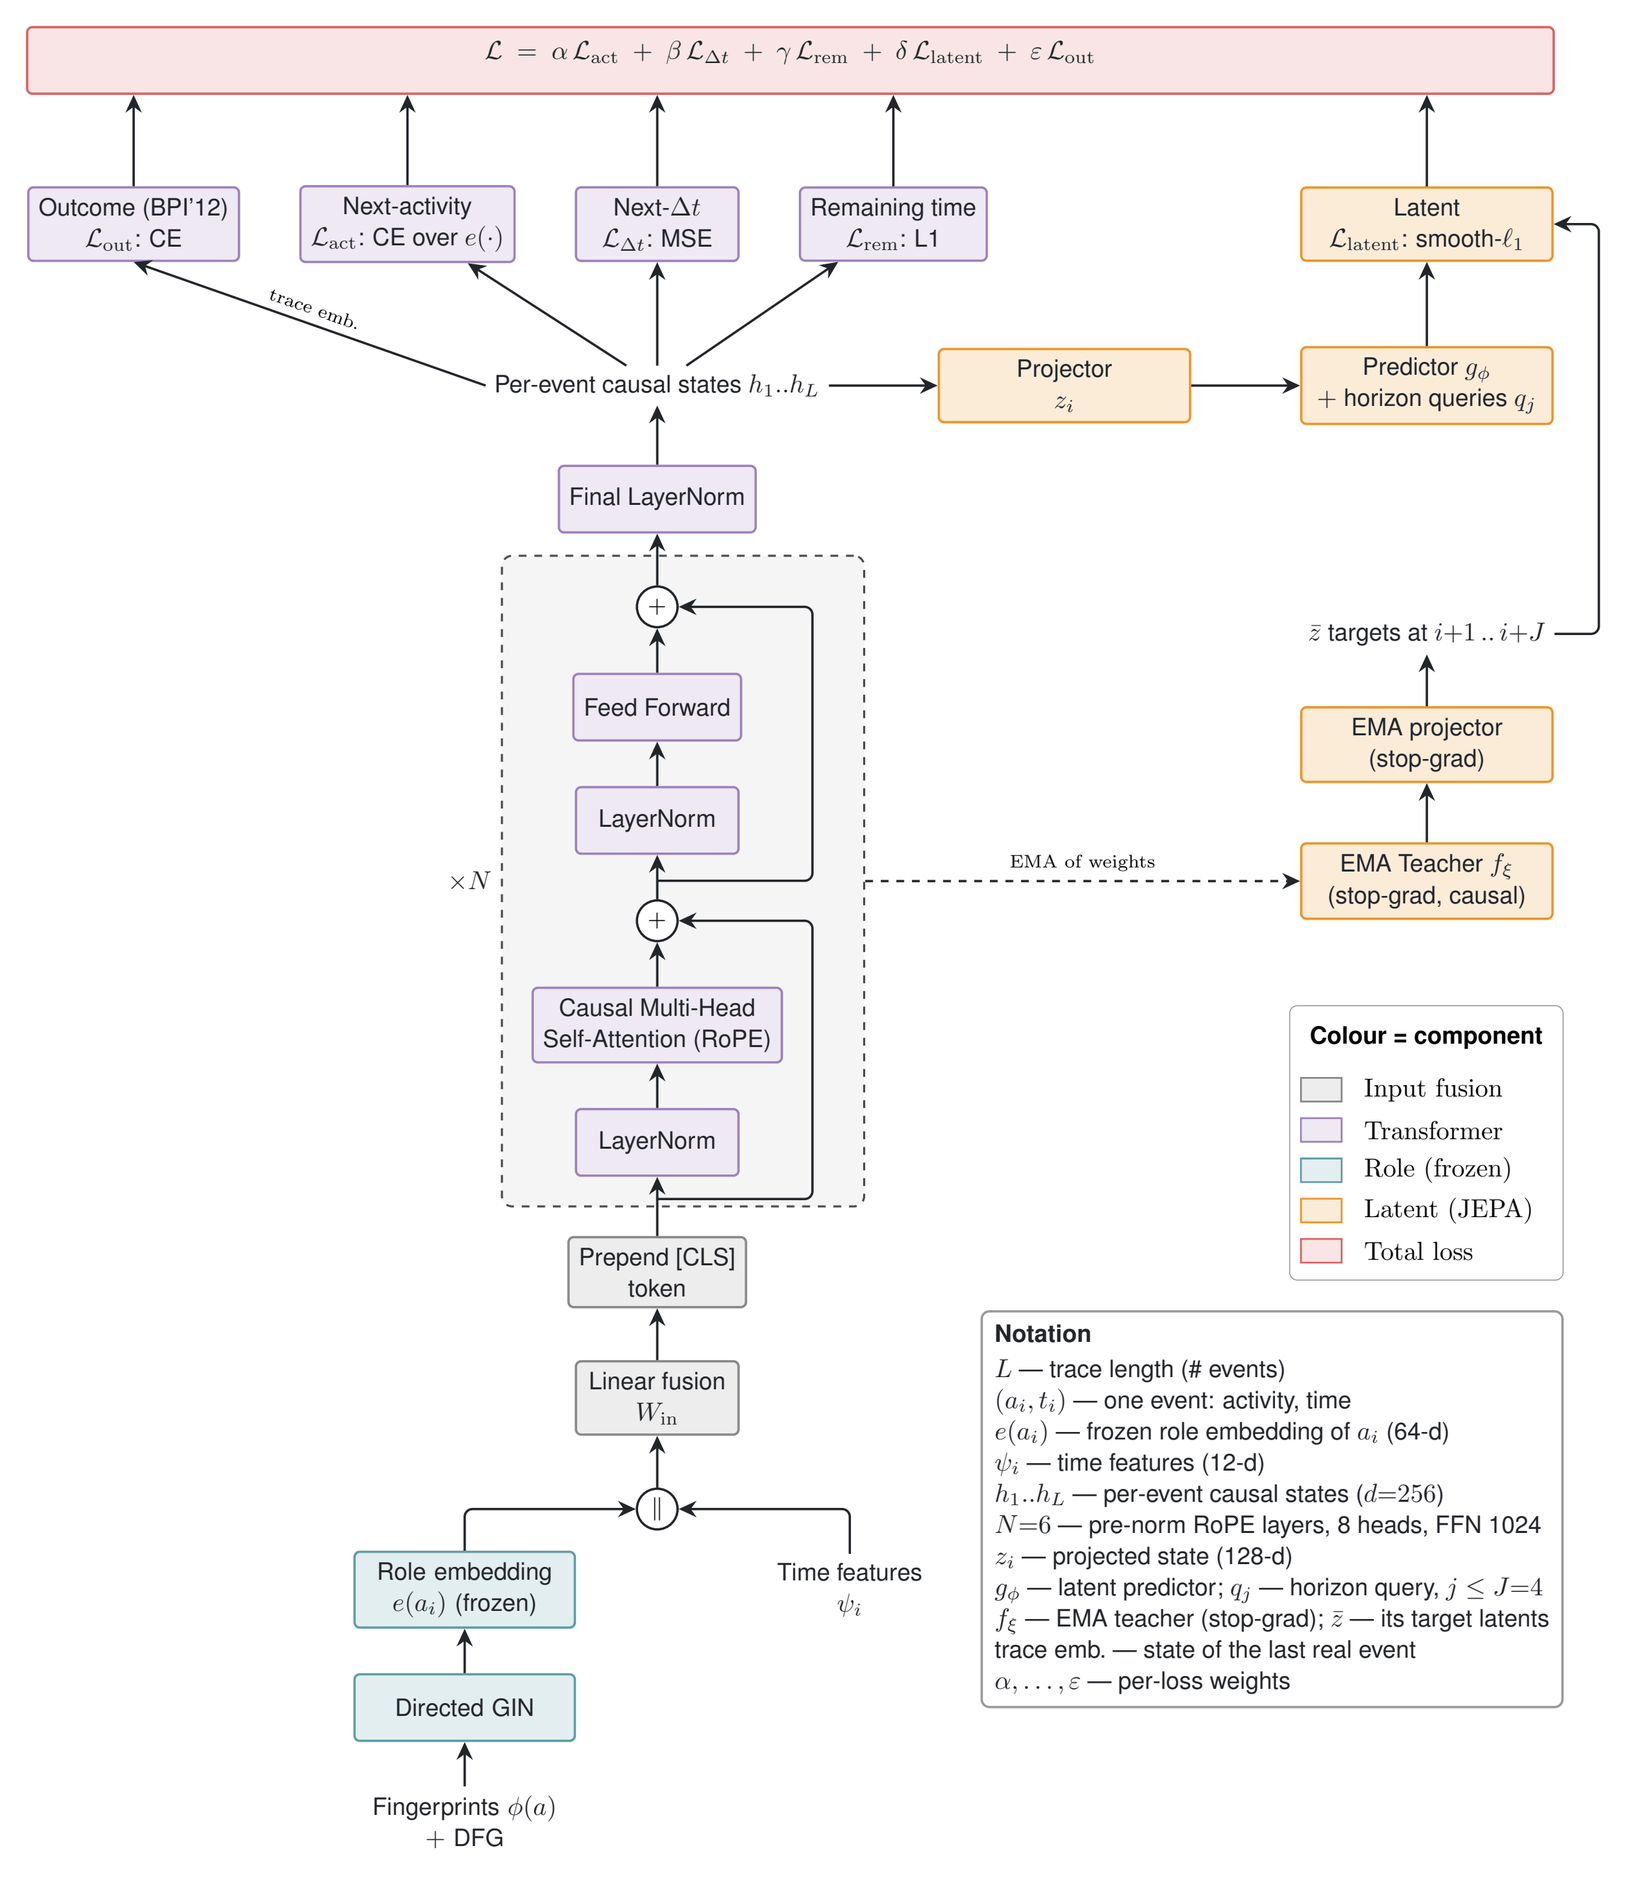
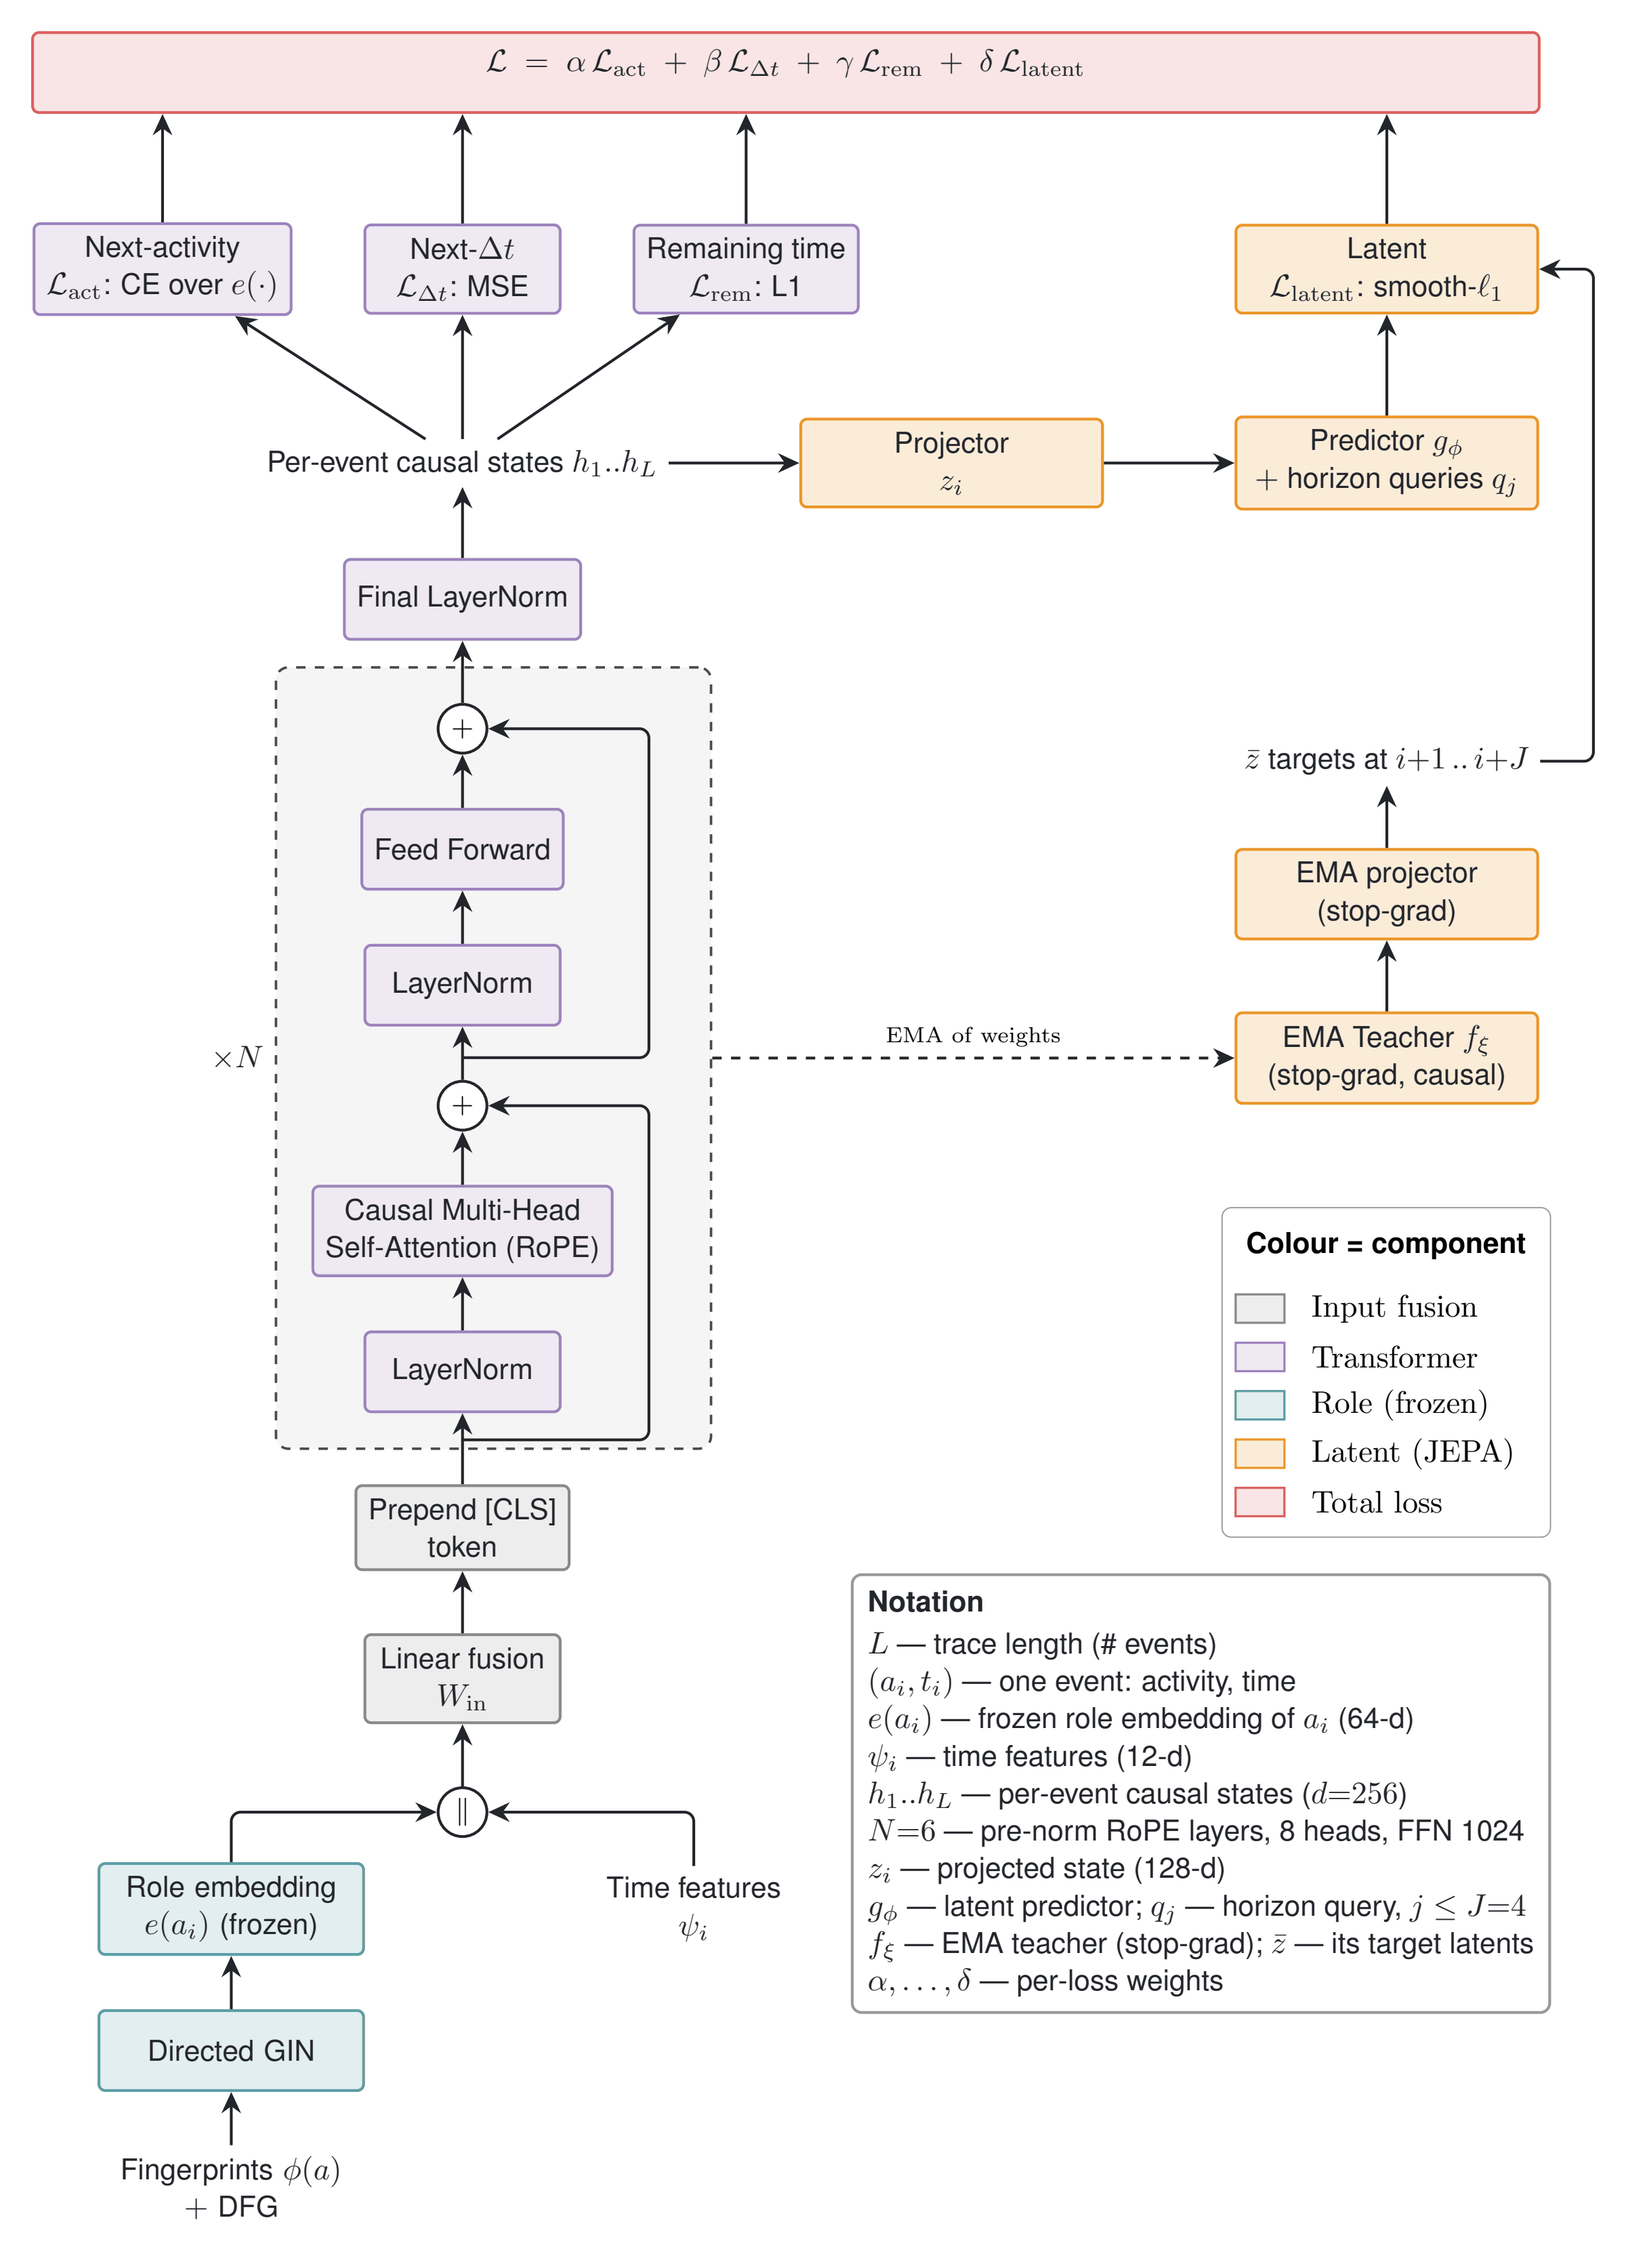
Show the four reported objectives in the backbone figure
Drops the outcome head from the Phase 1b diagram and the loss bar, and removes
the disclosure box from the README; the figure now matches Eq. (4) of the paper.
The term is still recorded under "Known deviations" in REPRODUCE.md and is
visible in configs/ar/default.yaml (outcome_weight: 0.3).

diff --git a/README.md b/README.md
@@ -105,10 +105,6 @@ is the frozen role embedding concatenated with time features. It is trained on s
 logs with four objectives: next activity, next event time, remaining time, and a **future-latent**
 (JEPA-style) objective that predicts its own EMA-teacher states `J = 4` steps ahead.
 
-> **Disclosure.** The released backbone was also trained with a small fifth term, a BPI'12
-> application-outcome head at weight 0.3. A control run with that term removed changes results only
-> within pretraining-seed noise. See [REPRODUCE.md](REPRODUCE.md#known-deviations).
-
 ### Phase 2 - adaptation
 
 The role encoder and backbone stay frozen. For a new log you need only its **activity set, DFG and
